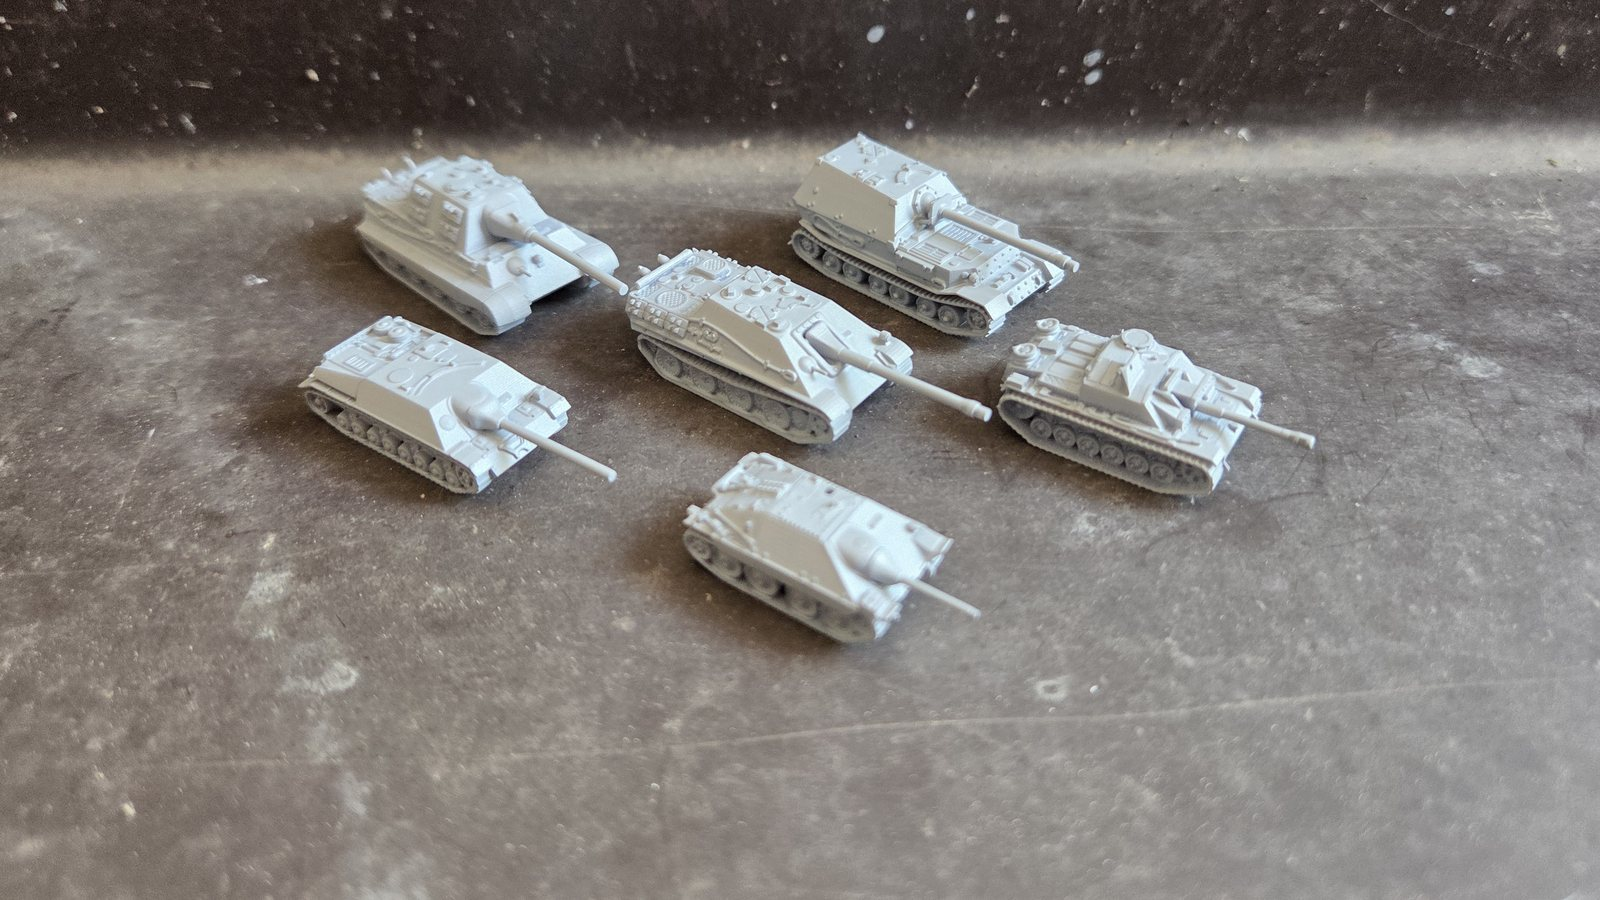
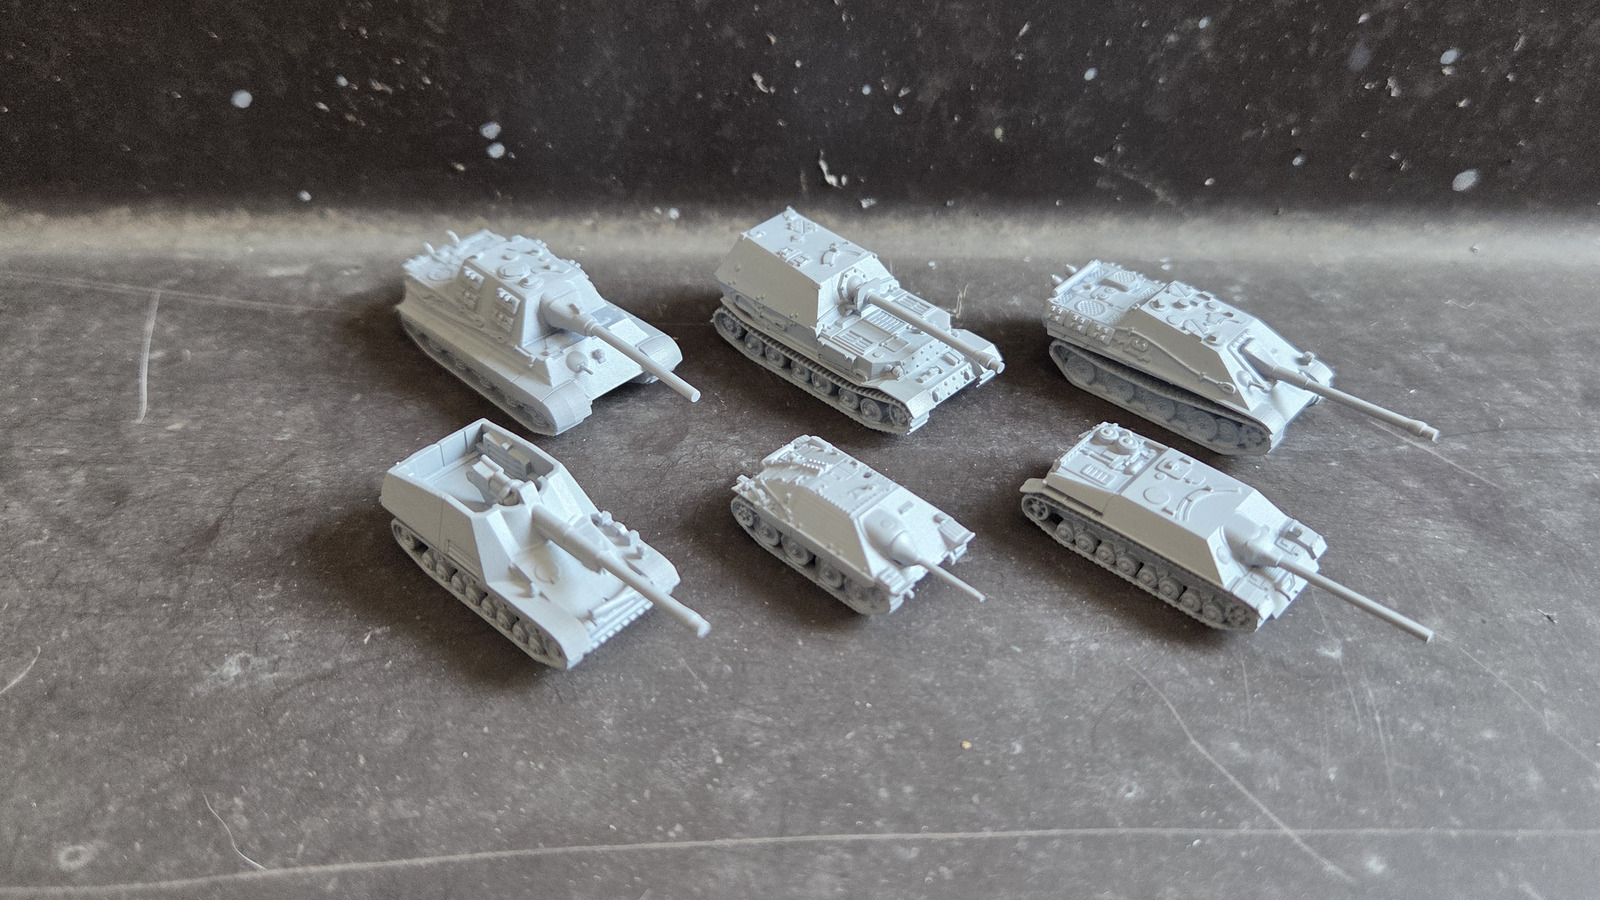
Refine tank scale audits and regenerate reference images

diff --git a/scripts/audit-tank-photo-scale.js b/scripts/audit-tank-photo-scale.js
@@ -12,8 +12,27 @@ vm.runInContext(fs.readFileSync(path.join(root, 'assets/js/tanks-data.js'), 'utf
 
 const tanks = (sandbox.window.TANKS || []).filter(tank => tank.disabled !== true);
 
-// Approximate real vehicle body/hull lengths in millimetres.
-// This intentionally avoids gun-forward overall length so crop scale follows vehicle body size.
+// Approximate real vehicle widths in millimetres for the most important scale-reference
+// families. Width is the primary crop-scale reference because it is not affected by
+// whether a published length includes the gun barrel.
+const vehicleWidths = {
+  nashorn: 2950,
+  hummel: 2970,
+  'kv-1': 3320,
+  'kv-2': 3320,
+  'kv-5': 4000,
+  'kv-85': 3250,
+  pershing: 3510,
+  t29: 3800,
+  t30: 3800,
+  't34-heavy-tank': 3800,
+  'tiger-i': 3560,
+  'tiger-ii': 3755,
+  sturmtiger: 3570,
+};
+
+// Approximate real vehicle body/hull lengths in millimetres. These are retained as
+// a secondary cross-check only and intentionally avoid gun-forward overall length.
 const bodyLengths = {
   'panzer-iv': 5920,
   'sherman-m4a3': 5840,
@@ -115,6 +134,7 @@ const rows = tanks.map(tank => ({
   type: tank.type,
   status: tank.historicalStatus || '',
   image: tank.image,
+  vehicleWidthMm: vehicleWidths[tank.slug] || null,
   bodyLengthMm: bodyLengths[tank.slug] || null,
   imageExists: fs.existsSync(path.join(root, ...String(tank.image || '').split('/'))),
 }));
@@ -133,13 +153,14 @@ fs.writeFileSync(
 fs.writeFileSync(
   path.join(outDir, 'tank-photo-scale-audit.csv'),
   [
-    'slug,name,nation,type,status,bodyLengthMm,image,imageExists',
+    'slug,name,nation,type,status,vehicleWidthMm,bodyLengthMm,image,imageExists',
     ...rows.map(row => [
       row.slug,
       JSON.stringify(row.name),
       row.nation,
       JSON.stringify(row.type),
       JSON.stringify(row.status),
+      row.vehicleWidthMm || '',
       row.bodyLengthMm || '',
       row.image,
       row.imageExists,

diff --git a/docs/workflows/add-new-tank-photos.md b/docs/workflows/add-new-tank-photos.md
@@ -23,7 +23,8 @@ Use this workflow when adding a new batch of tank photos to MiniTankForge.
 - Preserve believable visual scale across the site.
 - Use existing tank photos as scale references, not only automatic crop detection.
 - Check real vehicle dimensions before choosing crop scale.
-- Prefer body/hull length for scale comparison, not gun-forward overall length. Online dimensions may include or exclude barrels, and barrel-included dimensions can make long-gun tanks look incorrectly small.
+- Use vehicle width as the primary scale reference, especially with front or near-front photos. Width avoids the common barrel/no-barrel ambiguity in published lengths.
+- Use body/hull length only as a secondary cross-check. Never use gun-forward overall length as the sole scale target.
 - Keep tanks centered with enough padding so hulls and barrels are not cut off.
 - The same tank must keep the same apparent scale between base coat and unpainted photos.
 - Treat scale and framing as separate checks: a crop can be the correct size but still be bad if the vehicle is too high/low, clipped, or awkwardly crowded.
@@ -45,13 +46,14 @@ Use this workflow when adding a new batch of tank photos to MiniTankForge.
 
 Before making crop proposals:
 
-1. Look up or estimate each new vehicle's real body/hull length.
-2. Note whether the common published length includes the gun/barrel. If uncertain, do not use barrel-inclusive length as the only scale target.
-3. Pick at least two existing site references:
-   - one close in real body/hull length;
+1. Look up or estimate each new vehicle's real width and use it as the primary scale reference.
+2. Use front or near-front product photos to compare apparent width with the selected references.
+3. Look up body/hull length as a secondary check and note whether any published length includes the gun/barrel. Never let a barrel-inclusive length override the width check.
+4. Pick at least two existing site references:
+   - one close in real vehicle width;
    - one smaller or larger nearby vehicle to bracket the expected size.
-4. Use the existing final card images as visual references, and original source photos where available.
-5. If a new vehicle is fictional, prototype, or paper-project, use the closest chassis or intended family as the scale reference and note that assumption.
+5. Use the existing final card images as visual references, and original source photos where available.
+6. If a new vehicle is fictional, prototype, or paper-project, use the closest chassis or intended family as the scale reference and note that assumption.
 
 ## Preview First
 

diff --git a/docs/project-handoff.md b/docs/project-handoff.md
@@ -259,8 +259,8 @@ Tank crop rule:
 - Do not crop every tank to fill the frame.
 - The goal is consistent visual model scale across the site.
 - Match new tanks to a reference tank before final output.
-- Check real vehicle body/hull dimensions before choosing crop scale.
-- Do not blindly use online "length" if it includes the gun/barrel. Barrel-inclusive dimensions can make long-gun vehicles look too small.
+- Use real vehicle width as the primary scale reference, especially with front or near-front photos.
+- Use body/hull length only as a secondary cross-check. Do not blindly use online "length" if it includes the gun/barrel; barrel-inclusive dimensions can make long-gun vehicles look too small.
 - Treat scale and framing as separate approval checks. A crop can be the right size but still bad if the vehicle is clipped, too high/low in frame, or too crowded.
 - Examples:
   - Heavy tanks compare to Tiger II / Tiger.
@@ -496,7 +496,7 @@ For image-heavy tasks:
 - Generate preview sheets before finalizing when there is any uncertainty.
 - Show previews with `view_image`.
 - Do not write final output until both relative size and framing/crop are checked.
-- For tank photos, compare body/hull scale against real dimensions and nearby site references; then separately check for clipping, headroom, and awkward top/bottom placement.
+- For tank photos, compare vehicle width against real dimensions and nearby site references first, then use body/hull length as a secondary check; separately check for clipping, headroom, and awkward top/bottom placement.
 
 For Etsy listing tasks:
 - Use `docs/workflows/make-etsy-listing-packet.md`.
